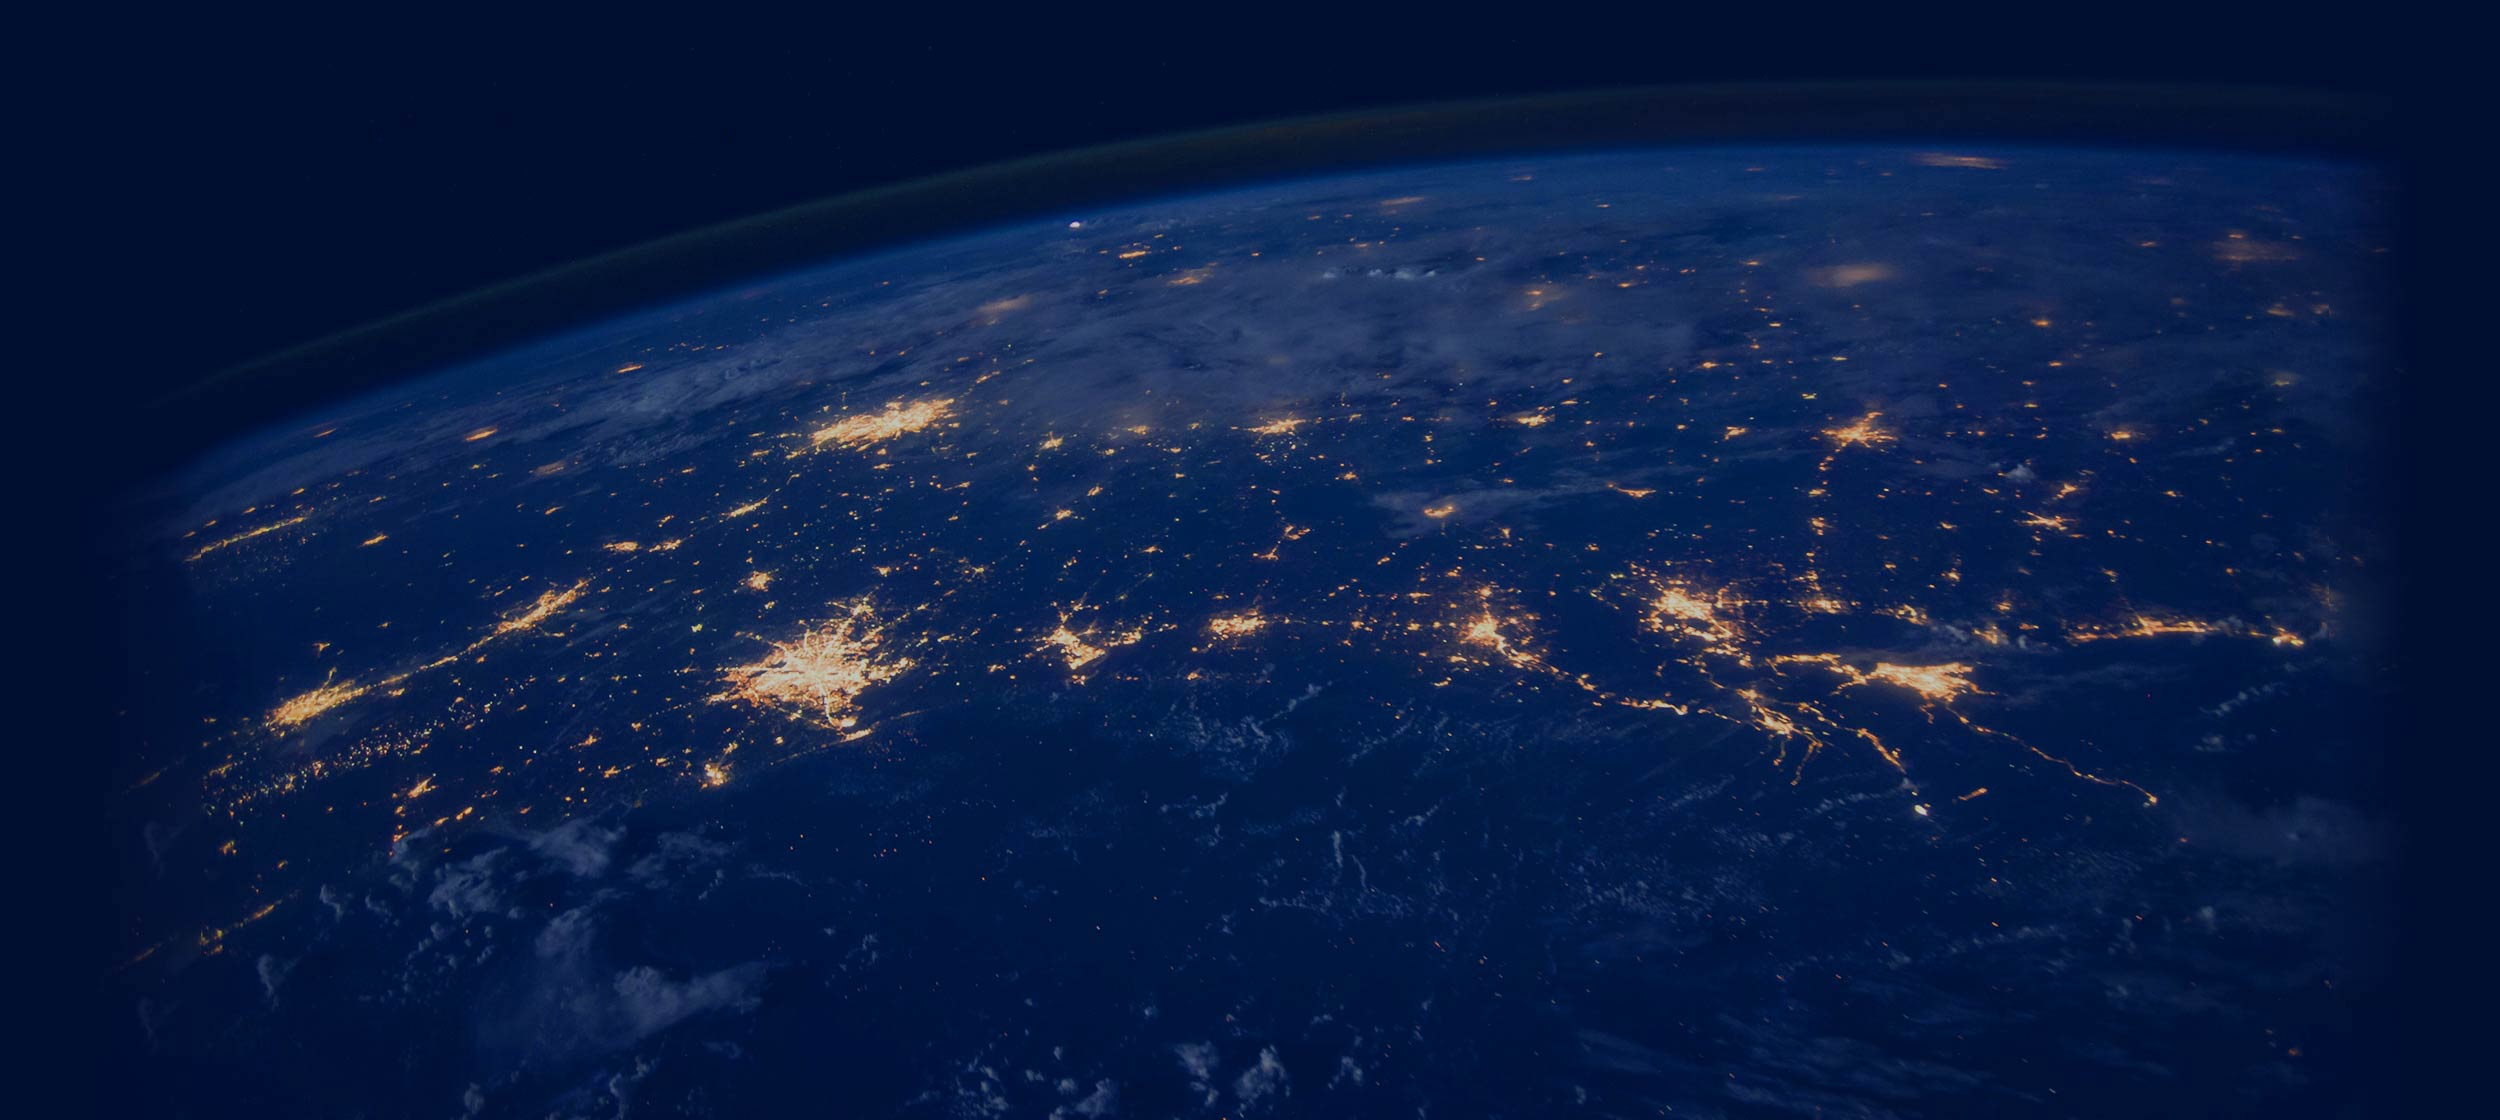
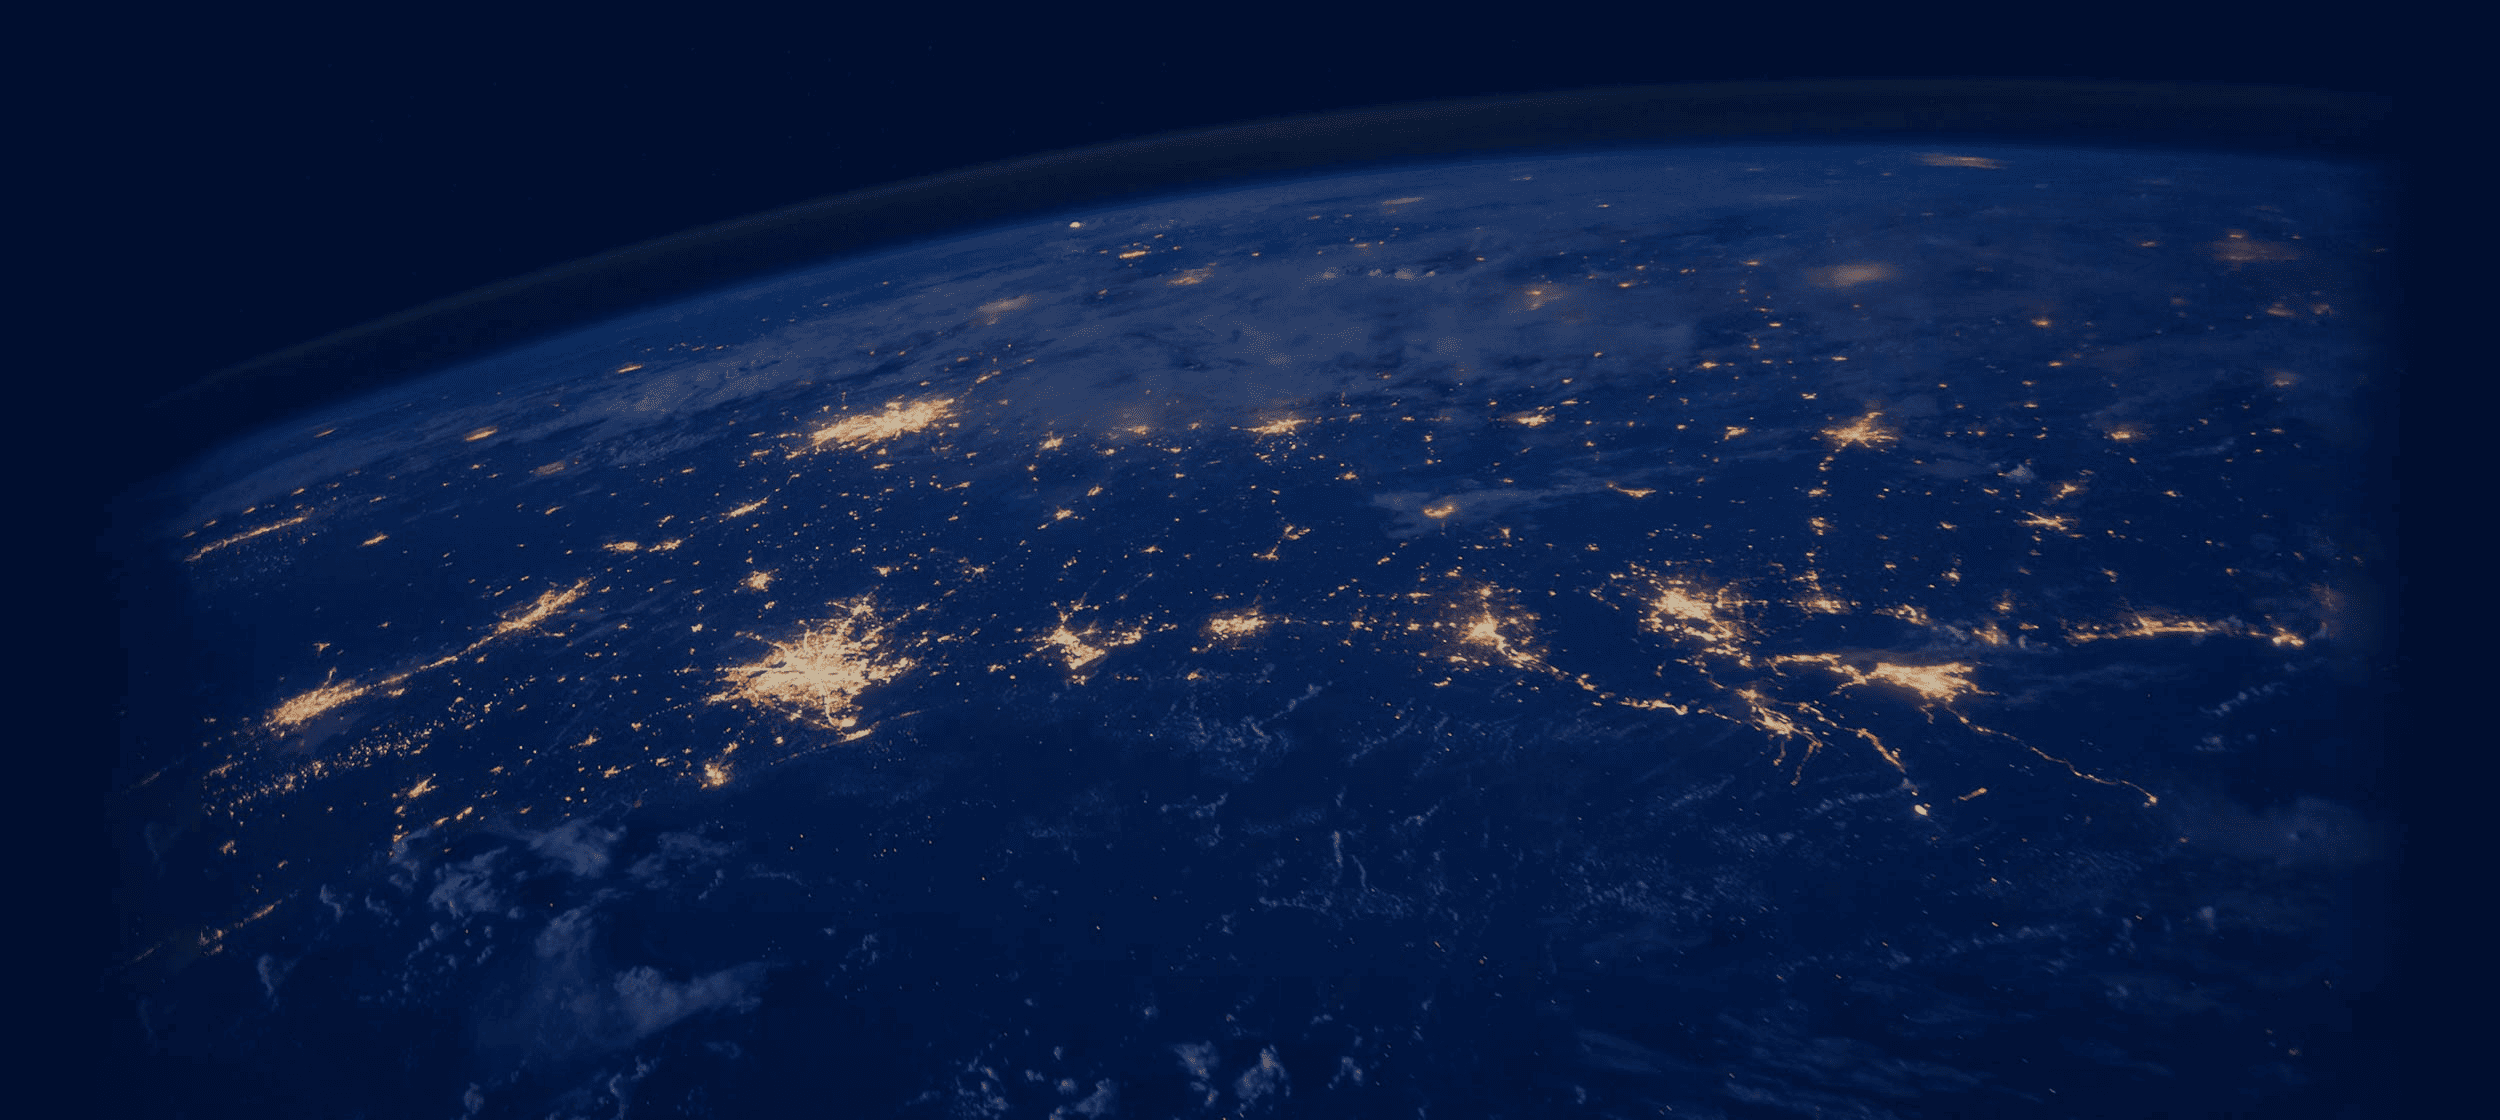
compress foto

Changed region(s): [[0.2808, 0.5938, 0.3432, 0.625], [0.4368, 0.3438, 0.468, 0.375]]

diff --git a/components/footer/index.vue b/components/footer/index.vue
@@ -51,7 +51,7 @@
             </div>
         </div>
         <div class="bottom">
-            <span class="title">© 2025 Horizon. {{ t('allRightReserved') }}</span>
+            <span class="title">© 2025 Horizon Consult. {{ t('allRightReserved') }}</span>
         </div>
     </footer>
 </template>
